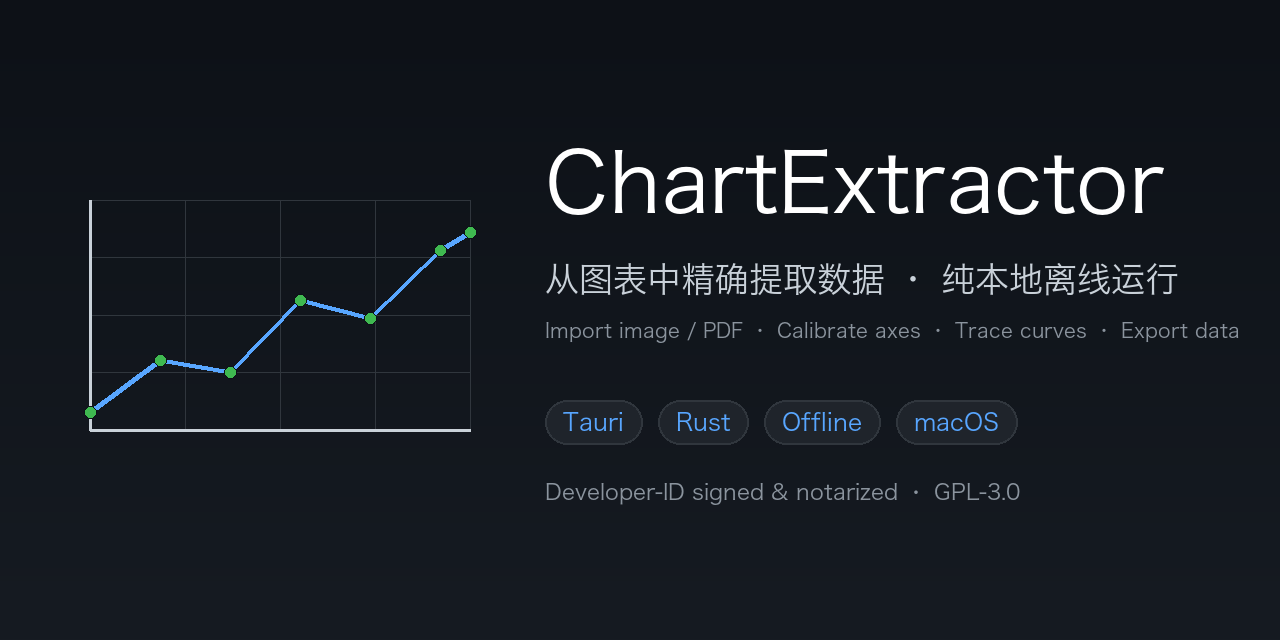
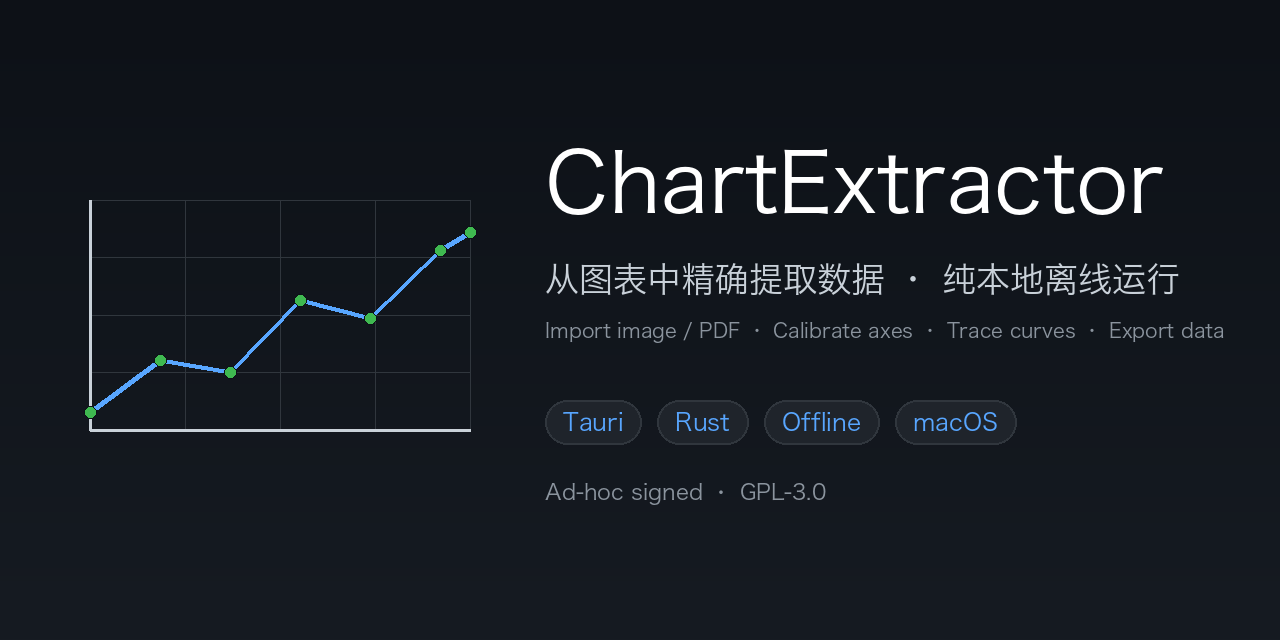
fix(social-preview): 移除 Developer ID 签名描述，改为 ad-hoc 签名

diff --git a/scripts/gen_social_preview.py b/scripts/gen_social_preview.py
@@ -92,7 +92,7 @@ for b in badges:
     d.text((bx + pad_x, by + 9), b, font=bf, fill=ACCENT)
     bx += bw + 16
 
-d.text((tx, 480), "Developer-ID signed & notarized · GPL-3.0",
+d.text((tx, 480), "Ad-hoc signed · GPL-3.0",
        font=font(22), fill=(139, 148, 158))
 
 img.save(OUT, "PNG")
